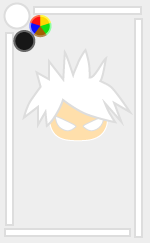
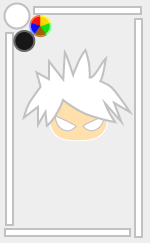
Add animation for cards

diff --git a/js/game.js b/js/game.js
@@ -241,7 +241,7 @@ XMing.GameManager = new function() {
                             name: data.cardName
                         });
                         m.performCardAction(card, slots);
-                        m.cleanUp();
+                        m.updateUI();
                         m.checkGameStatus();
                     }
 
@@ -418,7 +418,7 @@ XMing.GameManager = new function() {
 
             function processElementSelected(card, selectedSlot) {
                 self.performCardAction(card, [selectedSlot]);
-                self.cleanUp();
+                self.updateUI();
                 self.eachActiveConnection(function(c, $c) {
                     if (c.label === 'game') {
                         c.send({
@@ -466,7 +466,7 @@ XMing.GameManager = new function() {
 
         var doAction = function(card, selectedSlots) {
             self.performCardAction(card, selectedSlots);
-            self.cleanUp();
+            self.updateUI();
             self.eachActiveConnection(function(c, $c) {
                 if (c.label === 'game') {
                     c.send({
@@ -648,11 +648,11 @@ XMing.GameManager = new function() {
                                     var currentCardName = self.cardsOnBoard[currentSlot].name;
                                     if (isMyCards(currentSlot)) {
                                         self.assignAvailableCards(_.filter(cardIndexes, function(cardIndex) {
-                                            return cardIndex < maxSize && self.cardsOnBoard[cardIndex] != currentCardName;
+                                            return cardIndex < maxSize && self.cardsOnBoard[cardIndex].name != currentCardName;
                                         }));
                                     } else {
                                         self.assignAvailableCards(_.filter(cardIndexes, function(cardIndex) {
-                                            return cardIndex >= maxSize && self.cardsOnBoard[cardIndex] != currentCardName;
+                                            return cardIndex >= maxSize && self.cardsOnBoard[cardIndex].name != currentCardName;
                                         }));
                                     }
 
@@ -731,7 +731,7 @@ XMing.GameManager = new function() {
         }
     };
 
-    this.cleanUp = function() {
+    this.updateUI = function() {
         var self = this;
 
         $('.cards-row li')
@@ -740,16 +740,31 @@ XMing.GameManager = new function() {
         $('#gameboard').off('keydown');
 
         _.each($('.cards-row li'), function(li, index) {
-            $(li).removeClass();
-
             if (!_.isUndefined(self.cardsOnBoard[index])) {
-                $(li).addClass(self.cardsOnBoard[index].name);
+                if (!$(li).hasClass(self.cardsOnBoard[index].name)) {
+                    $(li).removeClass().fadeOut(0, function() {
+                        $(li).addClass(self.cardsOnBoard[index].name).fadeIn(500);
+                    });
+                }
+                else {
+                    $(li).removeClass().addClass(self.cardsOnBoard[index].name);
+                }
+            }
+            else {
+                var classList = $(li).attr('class') ? $(li).attr('class').split(/\s+/) : [];
+                if (_.intersection(CARD_NAMES, classList).length > 0) {
+                    $(li).fadeOut(500, function() {
+                        $(li).removeClass().fadeIn(0);
+                    })
+                }
+                else {
+                    $(li).removeClass();
+                }
             }
         });
     };
 
     this.assignAvailableCards = function(availableIndexes) {
-
         _.each($('.cards-row li'), function(li, index) {
             $(li).removeClass('available unavailable');
 
@@ -833,7 +848,6 @@ XMing.GameManager = new function() {
 
         // create new connection
         $("#host").click(function() {
-
             var usernameHost = $("#username-host").val();
 
             if (usernameHost === '') {
